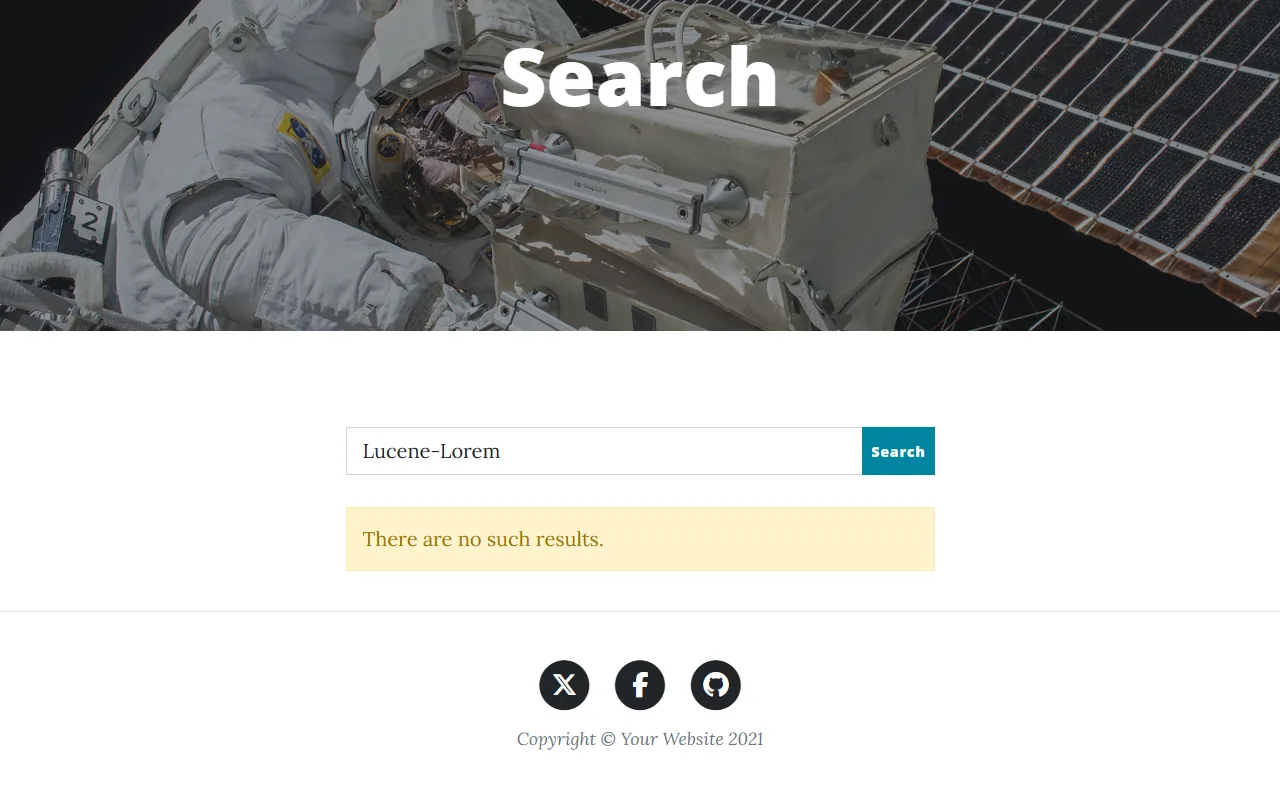
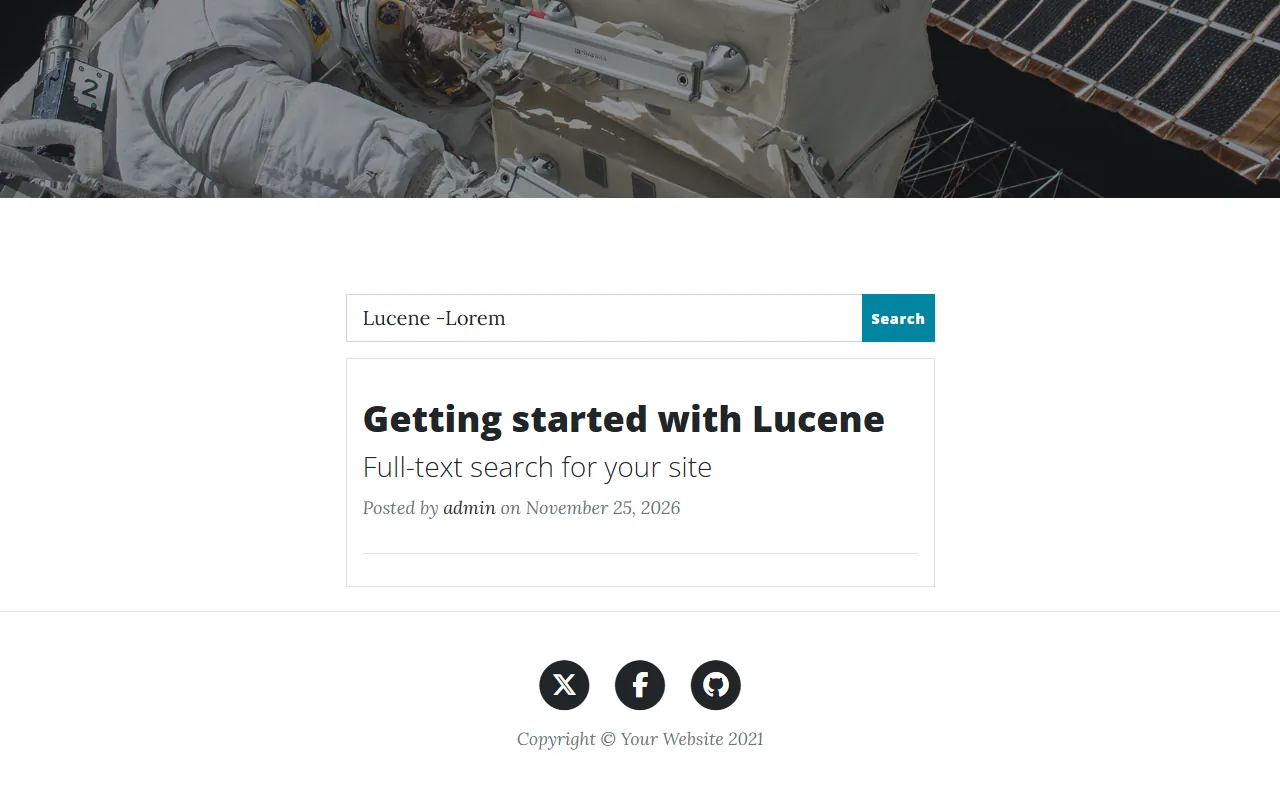
Describe guide screenshots taken in tenants, and fix the prohibition operator example
The example Lucene-Lorem finds nothing, as the hyphen joins the words: the
operator needs a space before it, Lucene -Lorem.

diff --git a/.scripts/docs/screenshots.py b/.scripts/docs/screenshots.py
@@ -5,11 +5,12 @@ script again whenever a screen changes, and commit the images that change.
 
 The site must be set up with the Blog recipe, with an `admin` account and the features the pages describe turned on,
 and with "Display titles in top bar" checked and the "Menu" actions layout in Settings > Admin (see "Screenshots" in
-src/docs/contributing/contributing-documentation.md).
+src/docs/contributing/contributing-documentation.md). A guide that sets up a site of its own is taken in a tenant of
+TENANTS, or on another site of SITES with --site; the comment above its shots says what the site must hold.
 
 Usage:
     pip install playwright pillow
-    python .scripts/docs/screenshots.py --url http://localhost:5000 --password <admin password> [--only <name>]
+    python .scripts/docs/screenshots.py --url http://localhost:5000 --password <admin password> [--site <site>] [--only <name> ...]
 
 The script uses the Microsoft Edge or Google Chrome installed on the machine. Without either, run
 `python -m playwright install chromium` and pass `--browser chromium`.
@@ -211,7 +212,7 @@ SHOTS = [
      "steps": SEARCH_RESULTS},
     {"file": "../guides/lucene-query-syntax/images/operator-not.webp", "path": "/search?Terms=Lucene%20NOT%20Lorem", "anonymous": True,
      "steps": SEARCH_RESULTS},
-    {"file": "../guides/lucene-query-syntax/images/prohibition-operator.webp", "path": "/search?Terms=Lucene-Lorem", "anonymous": True,
+    {"file": "../guides/lucene-query-syntax/images/prohibition-operator.webp", "path": "/search?Terms=Lucene%20-Lorem", "anonymous": True,
      "steps": SEARCH_RESULTS},
     {"file": "../guides/lucene-query-syntax/images/match-all.webp", "path": "/search?Terms=*%3A*", "anonymous": True,
      "steps": SEARCH_RESULTS},

diff --git a/AGENTS.md b/AGENTS.md
@@ -186,7 +186,7 @@ Every screenshot in the docs follows one specification, so they look the same on
 
 - **Taken by the script.** Add the screen to `SHOTS` in `.scripts/docs/screenshots.py` and run it against a local site; never take or edit a screenshot by hand.
 - **Window:** 1280x800 at a device scale of 1, the whole browser window with the admin menu, light mode with the Gray admin scheme, `en-US`. A long editor or form may capture the whole page, cut at 1600 pixels.
-- **Site:** set up with the Blog recipe, with **Display titles in top bar** checked and the **Menu** actions layout in **Settings → Admin**, signed in as `admin`, with the features the page describes turned on and sample data so lists aren't empty. No personal data, real credentials or secrets on screen.
+- **Site:** set up with the Blog recipe, with **Display titles in top bar** checked and the **Menu** actions layout in **Settings → Admin**, signed in as `admin`, with the features the page describes turned on and sample data so lists aren't empty. A guide that sets up a site of its own (another recipe, several steps) is taken in a tenant, or on a second site with `--site`, as the comments of its shots in `SHOTS` describe. No personal data, real credentials or secrets on screen.
 - **State:** the admin menu as on a fresh visit (the script clears the menu the admin theme remembers), nothing focused or hovered, no open dropdown unless the page is about it.
 - **File:** WebP at quality 82, under 150 KB, named in lowercase kebab case after the screen (`create-tenant.webp`), in the `images` folder next to the page that shows it.
 - **On the page:** right after the paragraph that introduces the screen, at most one per task, with alt text that says which screen it is and what it shows. No arrows, highlights, crops or annotations.

diff --git a/src/docs/contributing/contributing-documentation.md b/src/docs/contributing/contributing-documentation.md
@@ -104,7 +104,7 @@ User Manual pages show the screens they describe. Every screenshot follows the s
 | --- | --- |
 | **Window** | 1280x800 at a device scale of 1: the whole browser window, with the admin menu. A long editor may capture the whole page, cut at 1600 pixels. |
 | **Look** | Light mode with the Gray admin scheme, `en-US`, the admin menu as on a fresh visit, nothing focused or hovered. |
-| **Site** | Set up with the Blog recipe, with **Display titles in top bar** checked and the **Menu** actions layout in **Settings → Admin**, signed in as `admin`, with the features of the page turned on and sample data so lists aren't empty. No personal data or secrets. |
+| **Site** | Set up with the Blog recipe, with **Display titles in top bar** checked and the **Menu** actions layout in **Settings → Admin**, signed in as `admin`, with the features of the page turned on and sample data so lists aren't empty. A guide that sets up a site of its own is taken in a tenant, or on a second site with `--site`, as the comments of its shots describe. No personal data or secrets. |
 | **File** | WebP at quality 82, under 150 KB, named after the screen in lowercase kebab case, in the `images` folder next to the page. |
 | **Page** | Right after the paragraph that introduces the screen, with alt text that says which screen it is. No arrows, highlights or crops. |
 

diff --git a/.agents/skills/orchardcore-docs-writer/SKILL.md b/.agents/skills/orchardcore-docs-writer/SKILL.md
@@ -158,7 +158,7 @@ Host videos on YouTube, and never commit a video or its assets to the repository
 
 ## Screenshots
 
-Screenshots follow the specification in `AGENTS.md` (Screenshots) and `src/docs/contributing/contributing-documentation.md`: 1280x800 window at scale 1, light mode with the Gray admin scheme, Blog recipe site with sample data, titles in the top bar and the Menu actions layout, WebP quality 82 under 150 KB, in the `images` folder next to the page, right after the paragraph that introduces the screen. Add each screen to `SHOTS` in `.scripts/docs/screenshots.py` and run the script; never take or edit a screenshot by hand.
+Screenshots follow the specification in `AGENTS.md` (Screenshots) and `src/docs/contributing/contributing-documentation.md`: 1280x800 window at scale 1, light mode with the Gray admin scheme, Blog recipe site with sample data (a guide that sets up its own site in a tenant or on a second site with `--site`), titles in the top bar and the Menu actions layout, WebP quality 82 under 150 KB, in the `images` folder next to the page, right after the paragraph that introduces the screen. Add each screen to `SHOTS` in `.scripts/docs/screenshots.py` and run the script; never take or edit a screenshot by hand.
 
 ## Docs theme
 

diff --git a/src/docs/guides/lucene-query-syntax/README.md b/src/docs/guides/lucene-query-syntax/README.md
@@ -37,9 +37,9 @@ The *-* or prohibition operator excludes documents containing the term that appe
 
 To search for documents containing "Lucene" but not "Lorem", use the following query:
 
-`Lucene-Lorem`
+`Lucene -Lorem`
 
-![The search page with the results of Lucene-Lorem.](images/prohibition-operator.webp)
+![The search page with the results of Lucene -Lorem.](images/prohibition-operator.webp)
 
 
 ## MATCH ALL
